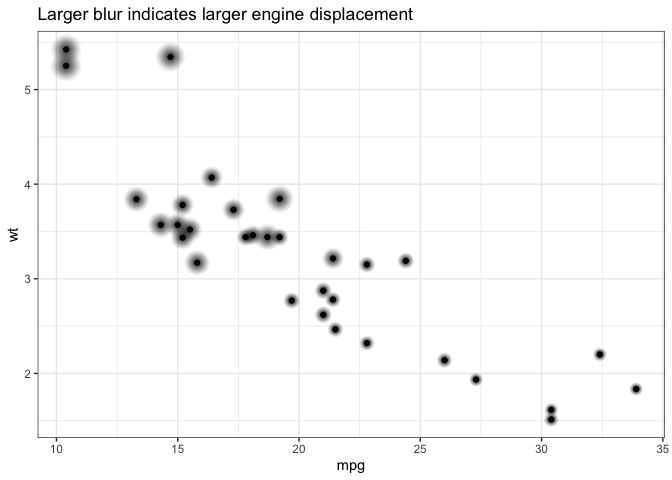
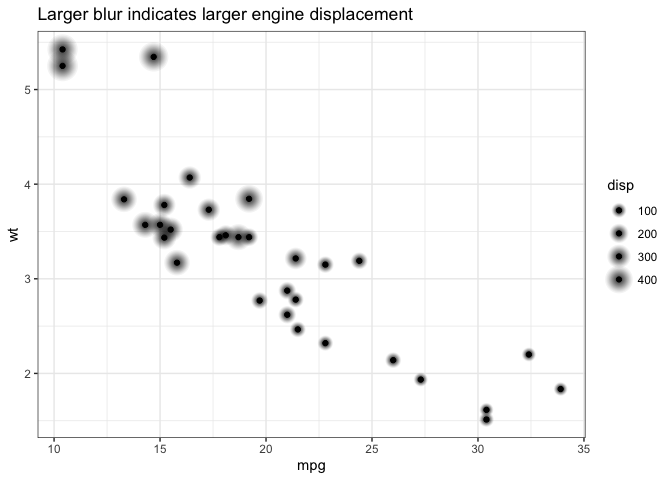
add legend support

diff --git a/NEWS.md b/NEWS.md
@@ -1,3 +1,8 @@
+
+# ggblur 0.1.1  2020-02-11
+
+* Added legend support
+
 # ggblur 0.1.0  2020-02-09
 
 * Initial release
